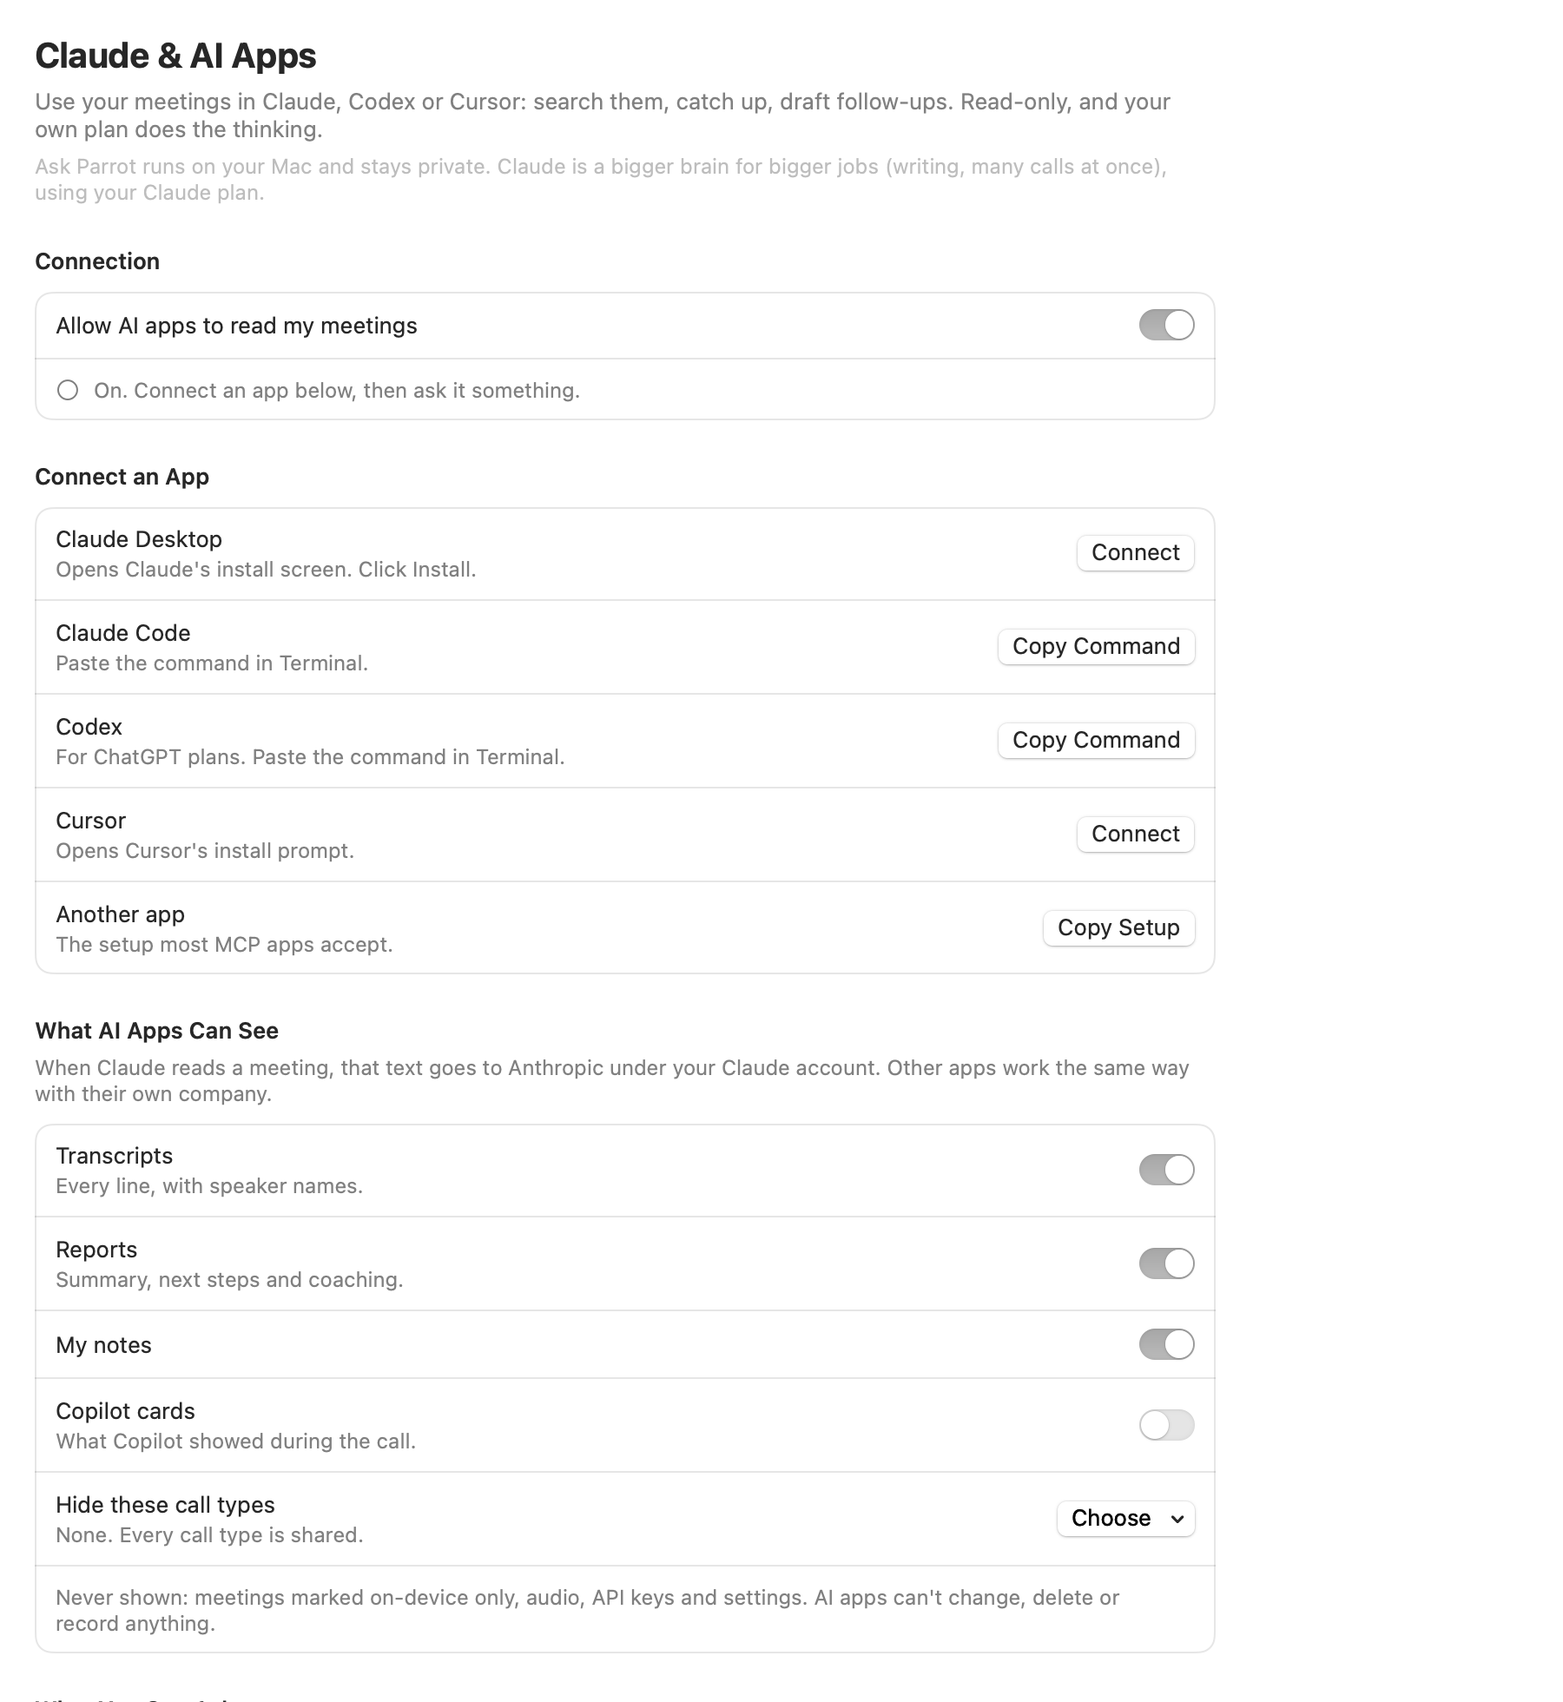
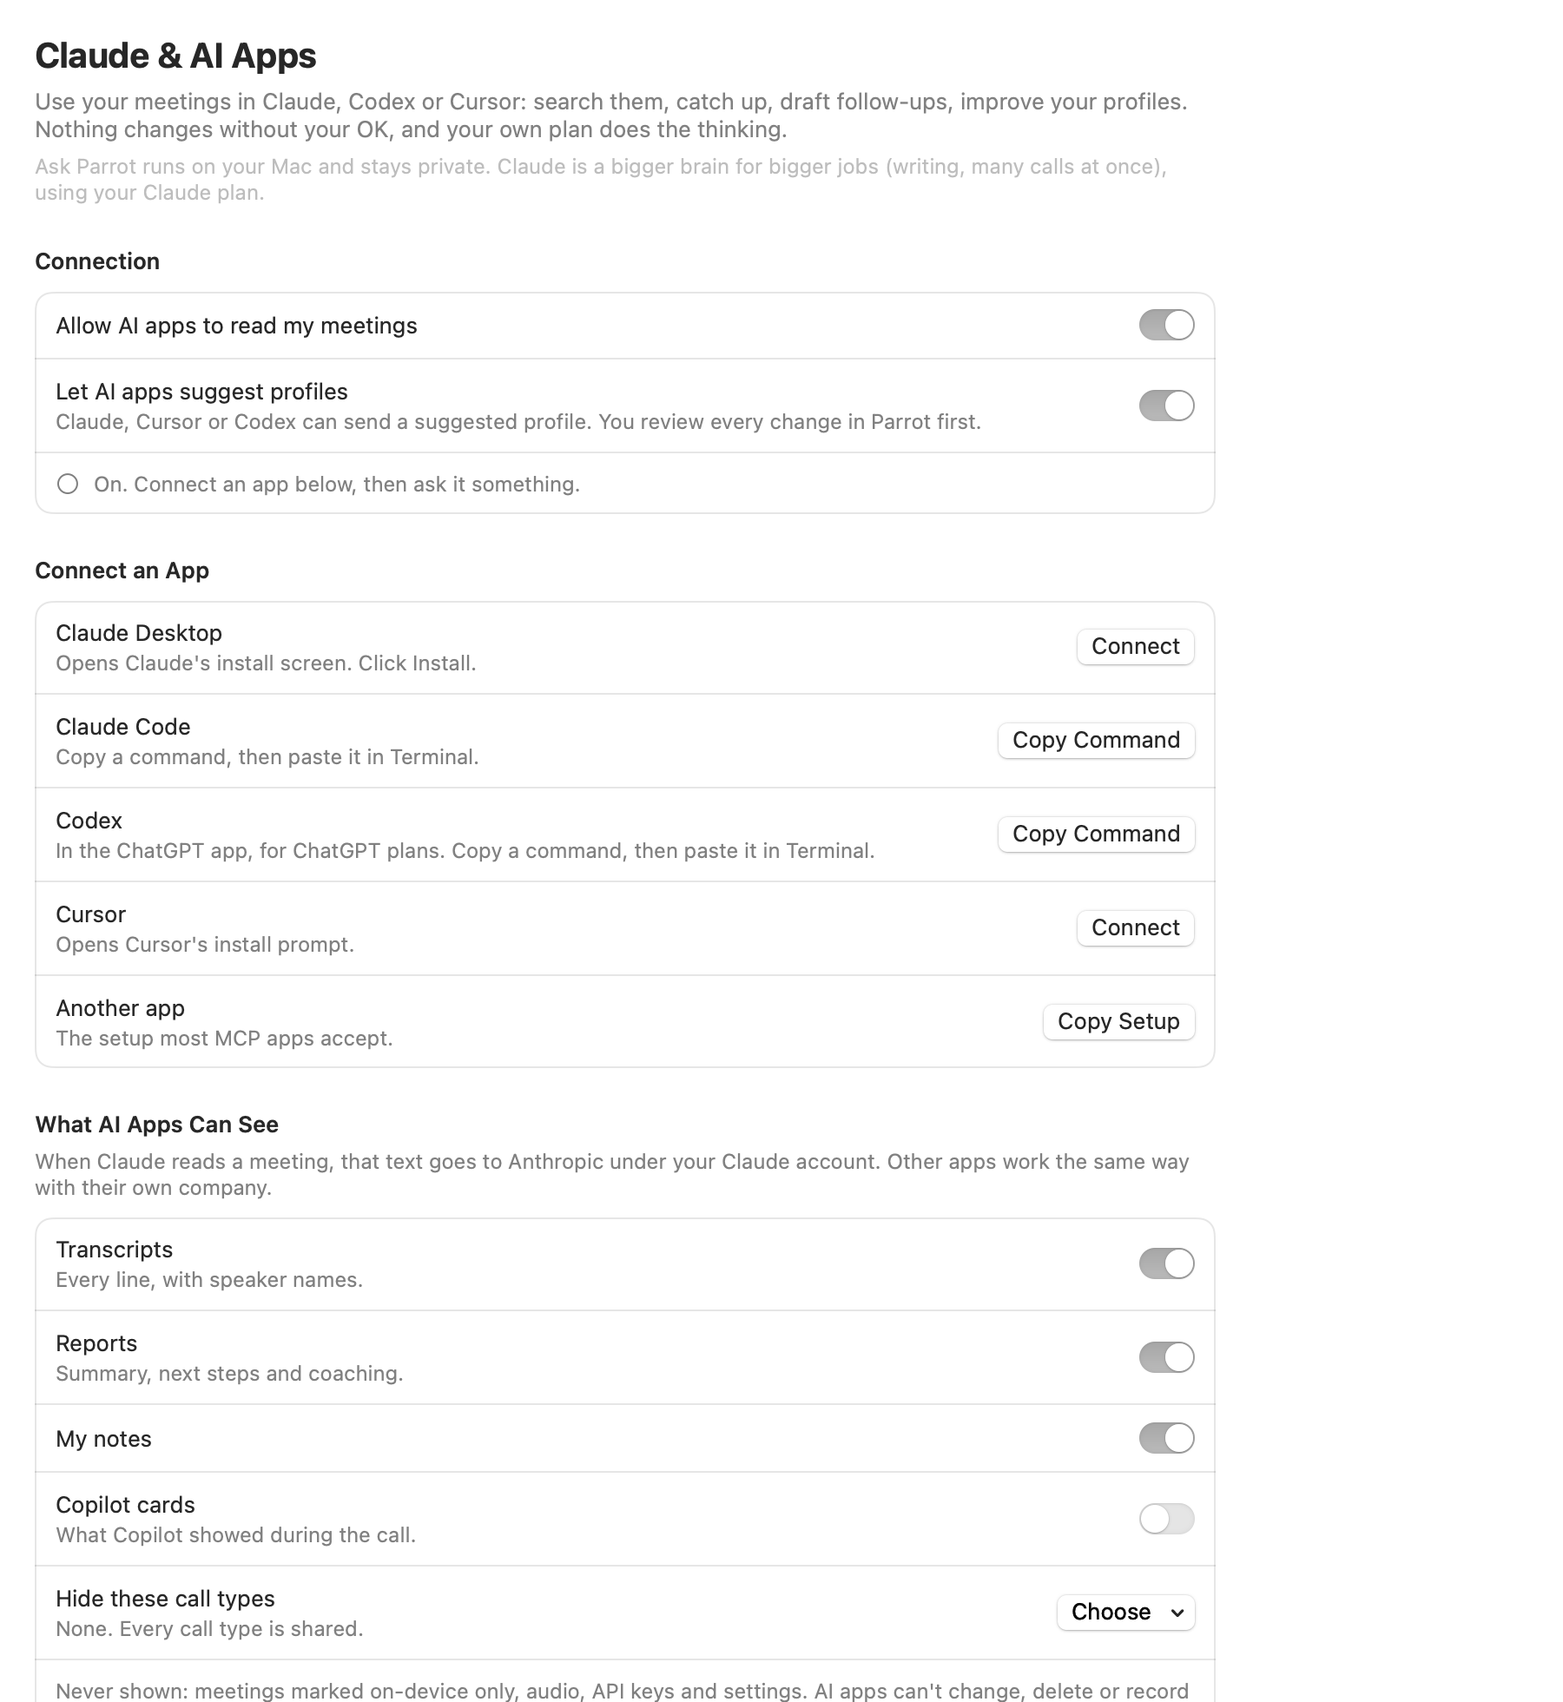
Help: report templates, scorecards, rewrite, share and import, Claude suggestions
- Call profiles: eight built-ins (Investor pitch), the Report card,
  scorecards and their fairness rule, share/export/import and the review
  screen, saved versions, and 'What changed in Profiles 2.0' in plain
  words (Copilot untouched, which reports changed, how to switch back,
  where the backup is)
- Reports: what a report covers depends on the profile; scorecards;
  Rewrite a report (undo, privacy, no second webhook, Cancel)
- Claude: a seventh job, 'Tune my Copilot', the three new ready-made
  actions, and 'Let Claude build or tune a profile' (banner, review,
  the switch); profiles no longer described as read-only
- The in-app Claude & AI Apps page lists the seventh job too
New guide images from --help-shots (the profiles-advanced capture is
taller, since the Report card now sits above the kinds).

diff --git a/docs/help/profiles.html b/docs/help/profiles.html
@@ -3,7 +3,7 @@
 <head>
 <meta charset="utf-8">
 <meta name="viewport" content="width=device-width, initial-scale=1">
-<meta name="keywords" content="profiles, call types, sales, coaching, interview, kinds, card kinds, gauges, persona, tone, custom rules, trigger, pinned, priority, internal key, icon, color, edit, duplicate, advanced">
+<meta name="keywords" content="profiles, call types, sales, coaching, interview, kinds, card kinds, gauges, persona, tone, custom rules, trigger, pinned, priority, internal key, icon, color, edit, duplicate, advanced, report, report template, sections, scorecard, criteria, coaching, share, export, import, parrotprofile, saved versions, restore, investor pitch, profiles 2.0, backup, classic report">
 <title>Call profiles</title>
 <link rel="canonical" href="https://openparrot.app/help/profiles.html">
 <!-- The guide's home is openparrot.app/help. GitHub Pages sends visitors there; the in-app copy stays put. -->
@@ -24,14 +24,16 @@ Settings → Profiles.</p>
 <img src="img/settings-profiles.png" alt="The Profiles page: profile list on the left, editor on the right">
 
 <h2>The profile list</h2>
-<p>Parrot ships with seven built-ins: Default, Sales discovery, 1:1 coaching,
-Interview, Customer support, Generic, and Vendor call (for calls where you
-are the customer and a bank, supplier or agency is onboarding you). You can
+<p>Parrot ships with eight built-ins: Default, Sales discovery, 1:1 coaching,
+Interview, Customer support, Generic, Vendor call (for calls where you
+are the customer and a bank, supplier or agency is onboarding you), and
+Investor pitch (for pitching to VCs and angels). You can
 edit every one of them,
-built-in only means you can't delete it. The two small buttons under the list
+built-in only means you can't delete it. The small buttons under the list
 are <strong>duplicate</strong> (the safe way to experiment: copy a built-in,
-go wild on the copy) and <strong>delete</strong>, which only works on your own
-profiles.</p>
+go wild on the copy), <strong>delete</strong>, which only works on your own
+profiles, and <strong>import</strong> (see
+<a href="#share">Share, export and import</a>).</p>
 
 <h2>The basics: who is this call with</h2>
 <p>The top of the editor is quick housekeeping: the profile's
@@ -63,6 +65,101 @@ Small thing, but cards read much more naturally when it's set.</p>
 sheet belongs in sales calls and has no business in a 1:1. Documents are
 added on the <a href="knowledge.html">Knowledge page</a> first, then tagged
 here.</p>
+
+<h2 id="report">The report: what it covers</h2>
+<p>Each profile decides what the report after its calls covers. A sales
+call's report asks about budget, who decides, timeline and objections. An
+interview's has a scorecard. A 1:1's is wins, blockers and what you both
+agreed. The <strong>Report</strong> card, under Persona &amp; Tone, is where you
+shape it.</p>
+
+<img src="img/profiles-report.png" alt="The Report card: the report menu, sections with titles and what goes in each, and the coaching settings">
+
+<ul>
+  <li><strong>The Report menu</strong>: the built-in's own report, the
+  <strong>classic report</strong> (the one every profile had before), or start
+  from another profile's report.</li>
+  <li><strong>Sections</strong>: each has a title and "what goes here", in
+  your own words, and is a <strong>Paragraph</strong>, a <strong>Bullet
+  list</strong> or a <strong>Scorecard</strong>. Move them with the arrows. Up to
+  eight; fewer work better when a local AI writes the report.</li>
+  <li><strong>"Promises and next steps go here"</strong>: switch it on for the
+  section that holds promises. Parrot checks each one against the transcript,
+  and uses them for Reminders, the follow-up email, "From your last call" and
+  Claude's "what did I promise?".</li>
+  <li><strong>Coaching report</strong>: what went well and what to improve.
+  Name the coach ("pitch coach", "interview coach") and what to focus on, or
+  switch it off to save one AI call per meeting.</li>
+</ul>
+
+<p>Editing anything makes it your own report, and improvements to the built-in
+stop reaching it. <strong>Reset</strong> brings the built-in's report back.
+Your custom rules still apply to the report, so "always mention budget" keeps
+working.</p>
+
+<h2 id="scorecards">Scorecards</h2>
+<p>A scorecard scores the call on criteria you list, like "Relevant
+experience" or "Check size". Each one gets a score from 1 to 5 <em>and</em> the
+moment in the call that shows it. No moment, no number: the row says
+<strong>no moment cited</strong>, or <strong>not enough evidence</strong> when the
+call didn't show it. Scorecards only judge what was said, never age, gender,
+accent, looks or other personal traits, and they never give a hire or no-hire
+verdict unless you add a section that asks for one. See
+<a href="reports.html#scorecards">how a scorecard looks in a report</a>.</p>
+
+<h2 id="share">Share, export and import</h2>
+<p>A profile you've tuned can go to a colleague. At the top of the editor,
+<strong>Share…</strong> opens Mail, Messages or AirDrop, and
+<strong>Export…</strong> shows what the file holds before it saves a
+<code>.parrotprofile</code> file.</p>
+
+<img src="img/profile-export.png" alt="Export sheet: what the file holds, and that it never holds meetings, documents, names or keys">
+
+<p>A profile file carries the persona, custom rules, card types, mood meters,
+report and the on-device only setting. It never carries your meetings, your
+documents, names from your calls, or any keys.</p>
+
+<p>To add one, double-click the file, drop it on the profile list, or use the
+import button under the list. Parrot shows what it would add or change before
+anything happens:</p>
+
+<img src="img/profile-review.png" alt="The review screen: who it came from and why, persona before and after, cards added and removed">
+
+<ul>
+  <li><strong>A new profile</strong>: <strong>Add profile</strong>. Add your own
+  documents afterwards; a file never carries them.</li>
+  <li><strong>An update to a profile you have</strong>: <strong>Apply</strong>,
+  <strong>Save as new profile</strong> or <strong>Discard</strong>. If you changed
+  that profile yourself, the buttons say <strong>Use theirs</strong>,
+  <strong>Keep both</strong> and <strong>Keep mine</strong>.</li>
+</ul>
+<p>A file can switch on-device only on, never off. The same screen reviews
+<a href="claude.html#tune">suggestions from Claude</a>.</p>
+
+<h2 id="versions">Saved versions</h2>
+<p>Before an import, a suggestion or a report change is applied, Parrot saves
+the profile as it was. The <strong>Saved Versions</strong> card keeps the last
+five, and <strong>Restore…</strong> puts one back. It saves the current one
+first, so a restore can be undone too.</p>
+
+<h2 id="profiles-2">What changed in Profiles 2.0</h2>
+<p>If you used Parrot before profiles had their own reports, this is what the
+update did:</p>
+<ul>
+  <li>Your Copilot settings (persona, custom rules, cards, mood meters,
+  documents, on-device only) didn't change.</li>
+  <li>Built-ins you never edited switched to their new report. Built-ins you
+  had tuned kept the classic report and show an offer in their settings:
+  <strong>Use it</strong> or <strong>Keep classic</strong>.</li>
+  <li>Profiles you made yourself kept the classic report.</li>
+  <li>Past meetings keep their reports. For a new-style report on one, use
+  <a href="reports.html#rewrite">Rewrite Report</a>.</li>
+  <li>A backup of every profile was saved first. The screen you saw after the
+  update has <strong>Show backup in Finder</strong>; to bring one back, import
+  it.</li>
+</ul>
+<p>To switch a built-in back, pick <strong>Classic report</strong> in its Report
+menu.</p>
 
 <h2>Advanced: the card kinds</h2>
 <p>In the <strong>Advanced</strong> card, click <strong>Card kinds &amp; gauges</strong> at the bottom

diff --git a/docs/help/claude.html b/docs/help/claude.html
@@ -3,7 +3,7 @@
 <head>
 <meta charset="utf-8">
 <meta name="viewport" content="width=device-width, initial-scale=1">
-<meta name="keywords" content="claude, claude desktop, claude code, codex, chatgpt, cursor, mcp, ai apps, connect, connector, extension, mcpb, install, read-only, what did i promise, commitments, follow-up email, weekly digest, prep for a call, prd, second opinion, coaching, talk time, export, share settings, transcripts, hide call types, activity, ask claude, parrot tools aren't available, couldn't open your meetings, cloud agent, web search, local chat, open in parrot, link, openparrot">
+<meta name="keywords" content="claude, claude desktop, claude code, codex, chatgpt, cursor, mcp, ai apps, connect, connector, extension, mcpb, install, read-only, what did i promise, commitments, follow-up email, weekly digest, prep for a call, prd, second opinion, coaching, talk time, export, share settings, transcripts, hide call types, activity, ask claude, parrot tools aren't available, couldn't open your meetings, cloud agent, web search, local chat, open in parrot, link, openparrot, suggest profile, create profile, improve profile, design report, tune my copilot, profile suggestions">
 <title>Use your meetings in Claude</title>
 <link rel="canonical" href="https://openparrot.app/help/claude.html">
 <!-- The guide's home is openparrot.app/help. GitHub Pages sends visitors there; the in-app copy stays put. -->
@@ -65,15 +65,19 @@ bigger jobs, like writing, or working across many calls at once.</p>
   <li><strong>Second opinion:</strong> "Coach me across my last 10 calls: where do
   I talk too much?", "Redo my last sales call's report with MEDDIC".</li>
   <li><strong>Prepare:</strong> "Brief me for my call with Acme in 10 minutes".</li>
+  <li><strong>Tune my Copilot:</strong> "Improve my Sales discovery profile from
+  my last 10 calls", "Make my interview report match our hiring scorecard".</li>
 </ul>
 <p>The <strong>What You Can Ask</strong> list on the page has more, each with a
 <strong>Copy</strong> button.</p>
 
 <h2>Ready-made actions</h2>
-<p>In Claude Desktop, the <strong>+</strong> button has four actions from
+<p>In Claude Desktop, the <strong>+</strong> button has seven actions from
 Parrot: <strong>Weekly digest</strong>, <strong>Follow-up email</strong>,
-<strong>Prep for a call</strong> and <strong>PRD from calls</strong> (turns what
-customers said about a topic into a short product brief).</p>
+<strong>Prep for a call</strong>, <strong>PRD from calls</strong> (turns what
+customers said about a topic into a short product brief), and three for your
+profiles: <strong>Create a call profile</strong>, <strong>Improve a call
+profile</strong> and <strong>Design a report</strong>.</p>
 <p>On a meeting page, <strong>Ask Claude</strong> (top right) copies a question
 about that meeting (<strong>Follow-up email</strong>, <strong>Second
 opinion</strong> or <strong>What did we agree?</strong>) and brings Claude
@@ -91,10 +95,30 @@ forward, so you only have to paste.</p>
   <li>Links back to Parrot: a time or meeting in the answer is a link, and
   clicking it opens that moment in Parrot, like the chips in Ask Parrot. The
   first time, your AI app may ask whether it may open Parrot.</li>
-  <li>Your call profiles, read-only.</li>
+  <li>Your call profiles, including what each report covers.</li>
   <li><strong>Save a meeting as a file</strong>: Claude can put a copy in
   Downloads &rarr; Parrot Exports, the same file Parrot's own export writes.</li>
 </ul>
+
+<h2 id="tune">Let Claude build or tune a profile</h2>
+<p>Claude (or Cursor, or Codex) is good at writing profiles. Ask it to build
+one for a new kind of call, improve one from how your recent calls went, or
+redesign a report. It never changes a profile itself: it sends a suggestion,
+and Parrot shows a banner.</p>
+
+<img src="img/profile-suggestion-banner.png" alt="Banner: Claude suggested changes to Sales discovery. Later, Review">
+
+<p><strong>Review</strong> opens the same screen as an
+<a href="profiles.html#share">imported file</a>: why Claude suggests it, what
+would change, then <strong>Apply</strong>, <strong>Save as new profile</strong> or
+<strong>Discard</strong>. Applying saves the old version first, so you can
+restore it. A suggestion can make a profile more private, never less, and it
+isn't applied during a call that uses that profile.</p>
+
+<p>"Improve a call profile" works best with <strong>Copilot cards</strong>
+shared (below), so Claude can see which cards you ignored. Don't want
+suggestions? Switch off <strong>Let AI apps suggest profiles</strong> on the
+Claude &amp; AI Apps page.</p>
 
 <h2>What AI apps can see</h2>
 <p>You decide, under <strong>What AI Apps Can See</strong>:

diff --git a/docs/help/reports.html b/docs/help/reports.html
@@ -3,7 +3,7 @@
 <head>
 <meta charset="utf-8">
 <meta name="viewport" content="width=device-width, initial-scale=1">
-<meta name="keywords" content="report, summary, coaching, talk balance, cost, price, tokens, export, markdown, polish, speakers, who said what, name speaker, remember voices, live speaker labels">
+<meta name="keywords" content="report, summary, coaching, talk balance, cost, price, tokens, export, markdown, polish, speakers, who said what, name speaker, remember voices, live speaker labels, scorecard, rewrite, rewrite report, undo rewrite, report template, profile">
 <title>Reports and costs</title>
 <link rel="canonical" href="https://openparrot.app/help/reports.html">
 <!-- The guide's home is openparrot.app/help. GitHub Pages sends visitors there; the in-app copy stays put. -->
@@ -19,8 +19,10 @@
 
 <h2>What you get after a call</h2>
 <p>When a recording stops (and the Copilot is set up), Parrot writes a report
-in the background: an overview of the call, pain points, key points and next
-steps, plus a coaching section that looks at how <em>you</em> did: talk
+in the background. What it covers depends on the call's
+<a href="profiles.html#report">profile</a>: by default an overview of the call,
+pain points, key points and next steps; budget, decision-maker and timeline
+for a sales call; a scorecard for an interview. Most also get a coaching section that looks at how <em>you</em> did: talk
 balance, what went well, what to try next time, and which objections came up
 and whether they got handled. The insights the Copilot raised live also land
 in the meeting, so nothing from the call evaporates.</p>
@@ -38,6 +40,37 @@ and a promise or next step with no line behind it is marked
 <strong>unverified</strong>, so an AI slip can't turn into a commitment you
 think somebody made. Reports written before this feature look the same as
 before.</p>
+
+<h2 id="scorecards">Scorecards</h2>
+<p>Profiles like Interview and Investor pitch score the call on a few
+criteria. Each row shows the score out of 5, the reason, and the moment that
+backs it; click the time to hear it.</p>
+
+<img src="img/report-scorecard.png" alt="A scorecard in a report: four criteria, three scored with a time each, one with not enough evidence">
+
+<p>A score only shows when it points to a real moment in the call. If the AI
+gave a score without one, the row says <strong>no moment cited</strong>; if the
+call didn't show enough, <strong>not enough evidence</strong>. Scorecards judge
+only what was said, never personal traits.</p>
+
+<h2 id="rewrite">Rewrite a report</h2>
+<p>Changed a profile, or recorded a call under the wrong one? <strong>Rewrite
+Report…</strong> (top right on the meeting page) writes the report again from
+the transcript, with any profile's report. The meeting moves to that
+profile.</p>
+
+<img src="img/rewrite-report.png" alt="Rewrite this report: pick a profile and see what the report will have">
+
+<ul>
+  <li>The current report is kept. <strong>Undo Rewrite</strong>, at the top of
+  the report, puts it back (one step).</li>
+  <li>An on-device only meeting is always rewritten by the AI on your Mac.
+  Rewriting with an on-device only profile makes the meeting on-device only
+  too, and undo doesn't change that back.</li>
+  <li>A rewrite doesn't send the webhook again or add Reminders again.</li>
+  <li>Local models can take a few minutes. <strong>Cancel</strong> keeps the old
+  report.</li>
+</ul>
 
 <h2>Who said what</h2>
 <p>After a call Parrot tells the voices apart on your Mac and labels them

diff --git a/Parrot/Views/AIAppsPageView.swift b/Parrot/Views/AIAppsPageView.swift
@@ -38,6 +38,9 @@ enum AIApps {
             examples: ["Coach me across my last 10 calls: where do I talk too much?", "Redo my last sales call's report with MEDDIC."]),
         Job(title: "Prepare",
             examples: ["Brief me for my call with Acme in 10 minutes.", "What's still open with Sarah?"]),
+        Job(title: "Tune my Copilot",
+            examples: ["Improve my Sales discovery profile from my last 10 calls.",
+                       "Make my interview report match our hiring scorecard."]),
     ]
 
     /// Once, on the first launch with this page: the switch already on means

diff --git a/Parrot/SnapshotTool.swift b/Parrot/SnapshotTool.swift
@@ -331,7 +331,7 @@ enum HelpShots {
                 .modelContainer(container))
         // Tall on purpose: the Advanced kinds/gauges editors live far down the
         // form, and the window's viewport is what gets captured.
-        shot("profiles-advanced.png", size: .init(width: 860, height: 2450),
+        shot("profiles-advanced.png", size: .init(width: 860, height: 3500),
              ProfilesSettingsView(advancedInitiallyOpen: true)
                 .environment(rm).environment(rm.profileStore).environment(AppSession())
                 .modelContainer(container))
